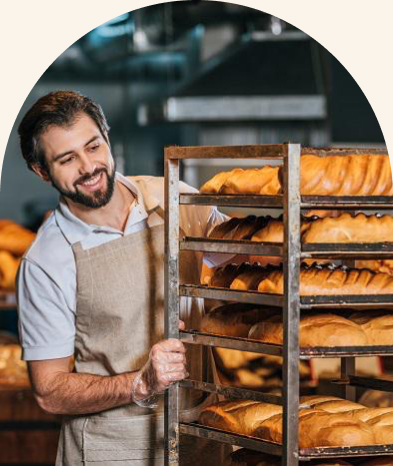
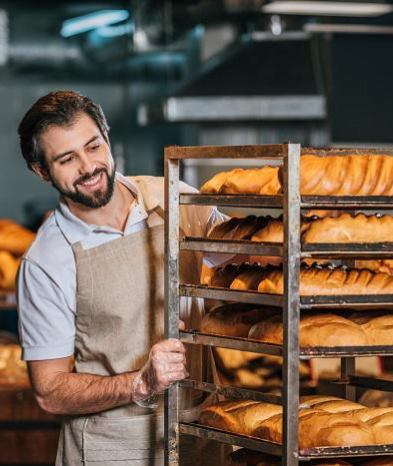
added img, css-grid

Changed region(s): [[0.5496, 0.0, 1.0, 0.3906], [0.0, 0.0, 0.458, 0.3906]]

diff --git a/css/styles.css b/css/styles.css
@@ -59,6 +59,7 @@
   --color-primary-light: #faf4ea;
   --color-brand-dark: #465929;
   --color-brand: #819b57;
+  --color-secondary-dark: #a18268;
 }
 /* base */
 * {
@@ -67,6 +68,7 @@
 body {
   margin: 0;
   color: var (--color-primary-dark);
+  background-color: var(--color-primary-light);
   font-family: Poppins, sans-serif;
   font-size: 18px;
   line-height: 1.5;
@@ -163,10 +165,14 @@ header {
 /* hero section */
 .hero-section {
   padding: 272px 0;
+  background-image: url("../images/hero-title.jpg");
+  background-repeat: no-repeat;
+  background-position: center top;
+  background-size: cover;
 }
 .hero-title {
   margin-bottom: 0;
-  color: var(--color-primary-dark);
+  color: var(--color-primary-light);
   font-size: 128px;
   font-weight: 900;
   text-align: center;
@@ -194,6 +200,9 @@ header {
   font-weight: 900;
   line-height: 1.3;
 }
+.section-title.centered {
+  text-align: center;
+}
 .accent {
   color: var(--color-brand-dark);
   font-weight: 600;
@@ -208,8 +217,8 @@ header {
 .tradition-title {
   margin-bottom: 42px;
 }
-.tradition-content{
-max-width: 710px;
+.tradition-content {
+  max-width: 710px;
 }
 .tradition-container {
   display: flex;
@@ -219,10 +228,26 @@ max-width: 710px;
 .tradition-text {
   width: 340px;
 }
+.tradition-img {
+  border-radius: 400px 400px 0px 0px;
+}
 
 /* chef section */
 .chefs-title {
-  margin-bottom: 80px;
+  max-width: 520px;
+  margin: 0 auto 80px;
+}
+.chefs-title::before,
+.chefs-title::after {
+  display: block;
+  width: 352px;
+  border: 2px solid #cfcfbc;
+  content: "";
+}
+.chef-img {
+  border-radius: 4px 4px 4px 200px;
+  box-shadow: -16px 16px 0 0 var(--color-primary-light),
+    -16px 16px 0 2px var(--color-secondary-dark);
 }
 .chef-name {
   font-size: 40px;
@@ -238,9 +263,16 @@ max-width: 710px;
   font-weight: 600;
 }
 .format-card {
+  height: 444px;
   padding: 24px;
   border: 1px solid #465929;
   border-radius: 16px;
+  background-image: linear-gradient(
+    180deg,
+    rgba(49, 38, 26, 0) 55.21%,
+    rgba(49, 38, 26, 0.71) 72.92%,
+    var(--color-primary-dark) 100%
+  );
 }
 .formats-cards {
   display: flex;
@@ -248,7 +280,7 @@ max-width: 710px;
   gap: 20px;
 }
 .formats-item {
-  flex-basis: calc((100% - 40px) / 4);
+  flex-basis: calc((100% - 40px) / 3);
 }
 .formats-section-dscr {
   font-size: 14px;
@@ -274,4 +306,11 @@ max-width: 710px;
   font-size: 14px;
   font-weight: 400;
   color: #a18268;
+}
+.footer {
+  background-image: url(../images/footer.png);
+  background-color: var(--color-primary-dark);
+  background-repeat: no-repeat;
+  background-size: cover;
+  background-position: center;
 }

diff --git a/index.html b/index.html
@@ -67,7 +67,7 @@
               </p>
             </div>
 
-            <img
+            <img class="tradition-img"
               src="./images/baker-man.jpg"
               alt="чоловік дивиться на хліб із посмішкою"
             />
@@ -76,12 +76,17 @@
       </section>
       <section class="section" id="chef-section">
         <div class="container">
-          <h2 class="chefs-title section-title">
+          <h2 class="chefs-title section-title centered">
             Наші найкращі <span class="accent">шеф-кухарі</span>
           </h2>
           <ul>
             <li>
               <article>
+                <img
+                  class="chef-img"
+                  src="./images/nastya.jpg"
+                  alt="nastya chef"
+                />
                 <h3 class="chef-name">Настя</h3>
                 <p>Привіт, я Настя!</p>
                 <p>Вже 10 років, я свтілюю у життя цікаві та смачні ідеї.</p>
@@ -90,6 +95,7 @@
             </li>
             <li>
               <article>
+                <img class="chef-img" src="./images/vlad.jpg" alt="vlad chef" />
                 <h3 class="chef-name">Влад</h3>
                 <p>Привіт, я Влад!</p>
                 <p>
@@ -104,7 +110,7 @@
       </section>
       <section class="section" id="formats-section">
         <div class="container">
-          <h2 class="formats-title section-title">Формати</h2>
+          <h2 class="formats-title section-title centered">Формати</h2>
           <ul class="formats-cards">
             <li class="formats-item">
               <article class="format-card">
@@ -113,7 +119,7 @@
                   <p>Площа: до 120 м2</p>
                   <p>Меню: розширене меню</p>
                   <p>
-                    Штат: 2 продавці-касири, 2 пекарі, 2 помічники пекаря, 2
+                      Штат: 2 продавці-касири, 2 пекарі, 2 помічники пекаря, 2
                     офіціанти
                   </p>
                   <p>Посадкові місця: є</p>
@@ -166,7 +172,7 @@
       </section>
     </main>
     <!-- footer -->
-    <footer>
+    <footer class="footer">
       <div class="container">
         <nav>
           <a href="#"
